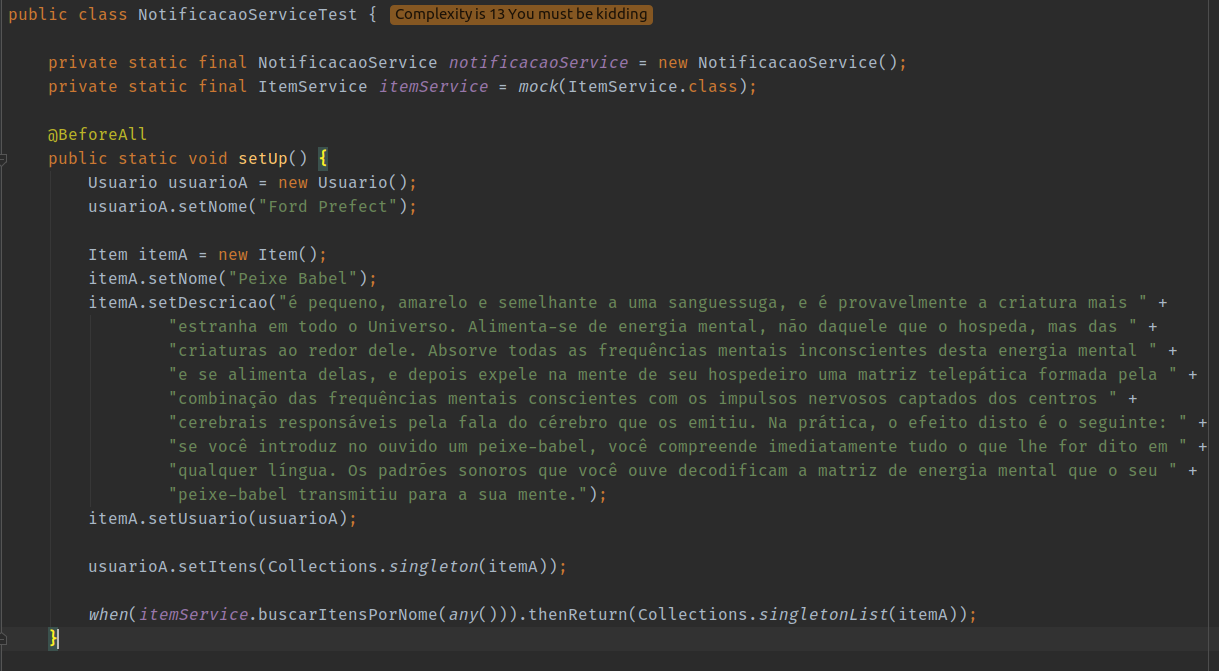
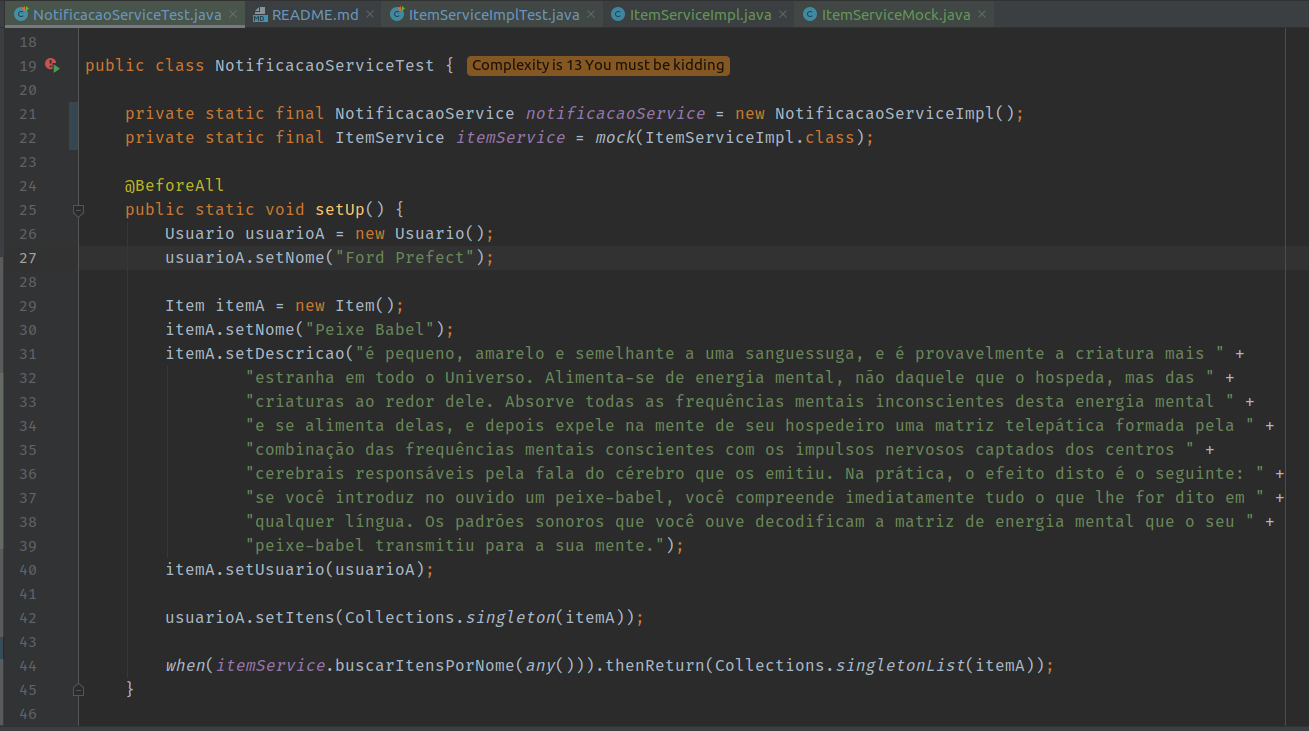
usando interfaces

Changed region(s): [[0.0, 0.0, 0.9975, 0.9836], [0.0623, 0.8942, 0.8105, 0.924], [0.0623, 0.8346, 0.4988, 0.8644]]

diff --git a/src/main/java/facens/engsoft/escambo/services/ItemService.java b/src/main/java/facens/engsoft/escambo/services/ItemService.java
@@ -3,67 +3,17 @@ package facens.engsoft.escambo.services;
 import facens.engsoft.escambo.models.IntervaloDeDisponibilidade;
 import facens.engsoft.escambo.models.Item;
 import facens.engsoft.escambo.models.Usuario;
-import facens.engsoft.escambo.repositories.ItemRepository;
-import facens.engsoft.escambo.repositories.UsuarioRepository;
-import lombok.RequiredArgsConstructor;
-import lombok.extern.slf4j.Slf4j;
-import org.springframework.stereotype.Service;
 
-import javax.transaction.Transactional;
-import java.util.Arrays;
 import java.util.Date;
 import java.util.List;
-import java.util.stream.Collectors;
 
-@Slf4j
-@Service
-@RequiredArgsConstructor
-public class ItemService {
+public interface ItemService {
 
-    private final ItemRepository itemRepository;
-    private final UsuarioRepository usuarioRepository;
+    Boolean addItemPara(Usuario usuario, Item item);
 
-    @Transactional
-    public Boolean addItemPara(Usuario usuario, Item item) {
-        usuario = usuarioRepository.findById(usuario.getId()).orElse(null);
+    Boolean addIntervaloDeDisponibilidadeParaItem(Item item, IntervaloDeDisponibilidade intervaloDeDisponibilidade);
 
-        if (usuario == null) {
-            return false;
-        }
+    List<Item> buscarItensPorNome(String name);
 
-        usuario.getItens().add(item);
-        itemRepository.save(item);
-
-        usuario = usuarioRepository.save(usuario);
-
-        log.info(String.format("Usuário %s salvo. Itens no inventário: %s", usuario.getNome(),
-                String.join(",", usuario.getItens().stream().map(i -> i.getNome()).collect(Collectors.toList()))));
-
-
-        return true;
-    }
-
-    public Boolean addIntervaloDeDisponibilidadeParaItem(Item item, IntervaloDeDisponibilidade intervaloDeDisponibilidade) {
-        return false;
-    }
-
-    public List<Item> buscarItensPorNome(String name) {
-        Item itemA = new Item();
-        itemA.setNome("Vaso de Petunias");
-
-        Item itemB = new Item();
-        itemB.setNome("Toalha");
-
-        return Arrays.asList(itemA, itemB);
-    }
-
-    public List<Item> buscarItensPorNomeEIntervalo(String name, Date dataInicial, Date dataFinal) {
-        Item itemA = new Item();
-        itemA.setNome("Vaso de Petunias");
-
-        Item itemB = new Item();
-        itemB.setNome("Toalha");
-
-        return Arrays.asList(itemA, itemB);
-    }
+    List<Item> buscarItensPorNomeEIntervalo(String name, Date dataInicial, Date dataFinal);
 }

diff --git a/src/main/java/facens/engsoft/escambo/services/impl/ItemServiceImpl.java b/src/main/java/facens/engsoft/escambo/services/impl/ItemServiceImpl.java
@@ -1,0 +1,58 @@
+package facens.engsoft.escambo.services.impl;
+
+import facens.engsoft.escambo.models.IntervaloDeDisponibilidade;
+import facens.engsoft.escambo.models.Item;
+import facens.engsoft.escambo.models.Usuario;
+import facens.engsoft.escambo.repositories.ItemRepository;
+import facens.engsoft.escambo.repositories.UsuarioRepository;
+import facens.engsoft.escambo.services.ItemService;
+import lombok.RequiredArgsConstructor;
+import lombok.extern.slf4j.Slf4j;
+import org.springframework.stereotype.Service;
+
+import javax.transaction.Transactional;
+import java.util.Arrays;
+import java.util.Date;
+import java.util.List;
+import java.util.stream.Collectors;
+
+@Slf4j
+@Service
+@RequiredArgsConstructor
+public class ItemServiceImpl implements ItemService {
+
+    private final ItemRepository itemRepository;
+    private final UsuarioRepository usuarioRepository;
+
+    @Transactional
+    public Boolean addItemPara(Usuario usuario, Item item) {
+        usuario = usuarioRepository.findById(usuario.getId()).orElse(null);
+
+        if (usuario == null) {
+            return false;
+        }
+
+        usuario.getItens().add(item);
+        itemRepository.save(item);
+
+        usuario = usuarioRepository.save(usuario);
+
+        log.info(String.format("Usuário %s salvo. Itens no inventário: %s", usuario.getNome(),
+                String.join(",", usuario.getItens().stream().map(i -> i.getNome()).collect(Collectors.toList()))));
+
+
+        return true;
+    }
+
+    public Boolean addIntervaloDeDisponibilidadeParaItem(Item item, IntervaloDeDisponibilidade intervaloDeDisponibilidade) {
+        return false;
+    }
+
+    public List<Item> buscarItensPorNome(String name) {
+        return null;
+    }
+
+    public List<Item> buscarItensPorNomeEIntervalo(String name, Date dataInicial, Date dataFinal) {
+        return null;
+    }
+}

diff --git a/src/test/java/facens/engsoft/escambo/services/ItemServiceImplTest.java b/src/test/java/facens/engsoft/escambo/services/ItemServiceImplTest.java
@@ -3,9 +3,9 @@ package facens.engsoft.escambo.services;
 import facens.engsoft.escambo.models.IntervaloDeDisponibilidade;
 import facens.engsoft.escambo.models.Item;
 import facens.engsoft.escambo.models.Usuario;
+import facens.engsoft.escambo.services.impl.ItemServiceMock;
 import org.junit.jupiter.api.DisplayName;
 import org.junit.jupiter.api.Test;
-import org.springframework.beans.factory.annotation.Autowired;
 import org.springframework.boot.test.context.SpringBootTest;
 
 import java.util.Calendar;
@@ -16,10 +16,9 @@ import static org.assertj.core.api.Assertions.assertThat;
 import static org.mockito.Mockito.any;
 
 @SpringBootTest
-public class ItemServiceTest {
+public class ItemServiceImplTest {
 
-    @Autowired
-    private ItemService itemService;
+    private static final ItemService itemService = new ItemServiceMock();
 
     @Test
     @DisplayName("DADO que sou um usuário que possui item " +
@@ -99,7 +98,6 @@ public class ItemServiceTest {
         intervaloDeDisponibilidade.setDataFinal(dataFinal);
         intervaloDeDisponibilidade.setObservacoes("Período pode ser alterado, mas precisa combinar antes");
 
-        boolean adicionado = itemService.addIntervaloDeDisponibilidadeParaItem(item, intervaloDeDisponibilidade);
         assertThat(itemService.addIntervaloDeDisponibilidadeParaItem(item, intervaloDeDisponibilidade))
                 .isTrue();
     }

diff --git a/src/main/java/facens/engsoft/escambo/services/SolicitacaoDeEscamboService.java b/src/main/java/facens/engsoft/escambo/services/SolicitacaoDeEscamboService.java
@@ -1,28 +1,11 @@
 package facens.engsoft.escambo.services;
 
-import facens.engsoft.escambo.enums.StatusDaSolicitacao;
 import facens.engsoft.escambo.models.InformacoesDeContato;
 import facens.engsoft.escambo.models.Item;
 import facens.engsoft.escambo.models.SolicitacaoDeEscambo;
-import org.springframework.stereotype.Service;
 
-@Service
-public class SolicitacaoDeEscamboService {
+public interface SolicitacaoDeEscamboService {
+    SolicitacaoDeEscambo solicitarEscambo(Item itemDoSolicitador, Item itemSolicitado);
 
-    public SolicitacaoDeEscambo solicitarEscambo(Item itemDoSolicitador, Item itemSolicitado) {
-        SolicitacaoDeEscambo solicitacaoDeEscambo = SolicitacaoDeEscambo.builder()
-                .itemDoSolicitador(itemDoSolicitador)
-                .itemSolicitado(itemSolicitado)
-                .statusDaSolicitacao(StatusDaSolicitacao.PENDENTE)
-                .build();
-
-        // TODO: Salvar solicitação
-        // TODO: Gerar notificação
-
-        return solicitacaoDeEscambo;
-    }
-
-    public InformacoesDeContato aceitarSolicitacaoDeEscambo(SolicitacaoDeEscambo solicitacaoDeEscambo) {
-        return new InformacoesDeContato();
-    }
+    InformacoesDeContato aceitarSolicitacaoDeEscambo(SolicitacaoDeEscambo solicitacaoDeEscambo);
 }

diff --git a/src/test/java/facens/engsoft/escambo/services/impl/ItemServiceMock.java b/src/test/java/facens/engsoft/escambo/services/impl/ItemServiceMock.java
@@ -1,0 +1,43 @@
+package facens.engsoft.escambo.services.impl;
+
+import facens.engsoft.escambo.models.IntervaloDeDisponibilidade;
+import facens.engsoft.escambo.models.Item;
+import facens.engsoft.escambo.models.Usuario;
+import facens.engsoft.escambo.services.ItemService;
+import org.springframework.stereotype.Service;
+
+import java.util.Arrays;
+import java.util.Date;
+import java.util.List;
+
+@Service
+public class ItemServiceMock implements ItemService {
+
+    public Boolean addItemPara(Usuario usuario, Item item) {
+        return true;
+    }
+
+    public Boolean addIntervaloDeDisponibilidadeParaItem(Item item, IntervaloDeDisponibilidade intervaloDeDisponibilidade) {
+        return false;
+    }
+
+    public List<Item> buscarItensPorNome(String name) {
+        Item itemA = new Item();
+        itemA.setNome("Vaso de Petunias");
+
+        Item itemB = new Item();
+        itemB.setNome("Toalha");
+
+        return Arrays.asList(itemA, itemB);
+    }
+
+    public List<Item> buscarItensPorNomeEIntervalo(String name, Date dataInicial, Date dataFinal) {
+        Item itemA = new Item();
+        itemA.setNome("Vaso de Petunias");
+
+        Item itemB = new Item();
+        itemB.setNome("Toalha");
+
+        return Arrays.asList(itemA, itemB);
+    }
+}

diff --git a/src/main/java/facens/engsoft/escambo/services/impl/SolicitacaoDeEscamboServiceImpl.java b/src/main/java/facens/engsoft/escambo/services/impl/SolicitacaoDeEscamboServiceImpl.java
@@ -1,0 +1,29 @@
+package facens.engsoft.escambo.services.impl;
+
+import facens.engsoft.escambo.enums.StatusDaSolicitacao;
+import facens.engsoft.escambo.models.InformacoesDeContato;
+import facens.engsoft.escambo.models.Item;
+import facens.engsoft.escambo.models.SolicitacaoDeEscambo;
+import facens.engsoft.escambo.services.SolicitacaoDeEscamboService;
+import org.springframework.stereotype.Service;
+
+@Service
+public class SolicitacaoDeEscamboServiceImpl implements SolicitacaoDeEscamboService {
+
+    @Override public SolicitacaoDeEscambo solicitarEscambo(Item itemDoSolicitador, Item itemSolicitado) {
+        SolicitacaoDeEscambo solicitacaoDeEscambo = SolicitacaoDeEscambo.builder()
+                .itemDoSolicitador(itemDoSolicitador)
+                .itemSolicitado(itemSolicitado)
+                .statusDaSolicitacao(StatusDaSolicitacao.PENDENTE)
+                .build();
+
+        // TODO: Salvar solicitação
+        // TODO: Gerar notificação
+
+        return solicitacaoDeEscambo;
+    }
+
+    @Override public InformacoesDeContato aceitarSolicitacaoDeEscambo(SolicitacaoDeEscambo solicitacaoDeEscambo) {
+        return new InformacoesDeContato();
+    }
+}

diff --git a/src/main/java/facens/engsoft/escambo/services/NotificacaoService.java b/src/main/java/facens/engsoft/escambo/services/NotificacaoService.java
@@ -1,18 +1,13 @@
 package facens.engsoft.escambo.services;
 
-import facens.engsoft.escambo.models.*;
-import org.springframework.stereotype.Service;
+import facens.engsoft.escambo.models.Item;
+import facens.engsoft.escambo.models.NotificacaoDeEscambo;
+import facens.engsoft.escambo.models.NotificacaoDeInteresse;
+import facens.engsoft.escambo.models.SolicitacaoDeEscambo;
+import facens.engsoft.escambo.models.Usuario;
 
-@Service
-public class NotificacaoService {
+public interface NotificacaoService {
+    NotificacaoDeInteresse notificarInteresse(Usuario usuarioInteressado, Item itemDeInteresse);
 
-    public NotificacaoDeInteresse notificarInteresse(Usuario usuarioInteressado, Item itemDeInteresse) {
-        // TODO: disparar notificação para o usuário
-        return null;
-    }
-
-    public NotificacaoDeEscambo notificarEscambo(SolicitacaoDeEscambo solicitacaoDeEscambo) {
-        // TODO: disparar notificação para o usuário
-        return new NotificacaoDeEscambo();
-    }
+    NotificacaoDeEscambo notificarEscambo(SolicitacaoDeEscambo solicitacaoDeEscambo);
 }

diff --git a/src/test/java/facens/engsoft/escambo/services/SolicitacaoDeEscamboServiceTest.java b/src/test/java/facens/engsoft/escambo/services/SolicitacaoDeEscamboServiceTest.java
@@ -5,6 +5,8 @@ import facens.engsoft.escambo.models.InformacoesDeContato;
 import facens.engsoft.escambo.models.Item;
 import facens.engsoft.escambo.models.SolicitacaoDeEscambo;
 import facens.engsoft.escambo.models.Usuario;
+import facens.engsoft.escambo.services.impl.ItemServiceMock;
+import facens.engsoft.escambo.services.impl.SolicitacaoDeEscamboServiceImpl;
 import org.junit.jupiter.api.BeforeAll;
 import org.junit.jupiter.api.DisplayName;
 import org.junit.jupiter.api.Test;
@@ -19,9 +21,9 @@ import static org.mockito.Mockito.when;
 
 public class SolicitacaoDeEscamboServiceTest {
 
-    private static final SolicitacaoDeEscamboService solicitacaoDeEscamboService = new SolicitacaoDeEscamboService();
+    private static final SolicitacaoDeEscamboService solicitacaoDeEscamboService = new SolicitacaoDeEscamboServiceImpl();
 
-    private static final ItemService itemService = mock(ItemService.class);
+    private static final ItemService itemService = mock(ItemServiceMock.class);
 
     @BeforeAll
     public static void setUp() {

diff --git a/src/test/java/facens/engsoft/escambo/services/NotificacaoServiceTest.java b/src/test/java/facens/engsoft/escambo/services/NotificacaoServiceTest.java
@@ -2,6 +2,8 @@ package facens.engsoft.escambo.services;
 
 import facens.engsoft.escambo.enums.StatusDaSolicitacao;
 import facens.engsoft.escambo.models.*;
+import facens.engsoft.escambo.services.impl.ItemServiceImpl;
+import facens.engsoft.escambo.services.impl.NotificacaoServiceImpl;
 import org.junit.jupiter.api.BeforeAll;
 import org.junit.jupiter.api.DisplayName;
 import org.junit.jupiter.api.Test;
@@ -16,8 +18,8 @@ import static org.mockito.Mockito.when;
 
 public class NotificacaoServiceTest {
 
-    private static final NotificacaoService notificacaoService = new NotificacaoService();
-    private static final ItemService itemService = mock(ItemService.class);
+    private static final NotificacaoService notificacaoService = new NotificacaoServiceImpl();
+    private static final ItemService itemService = mock(ItemServiceImpl.class);
 
     @BeforeAll
     public static void setUp() {

diff --git a/src/main/java/facens/engsoft/escambo/services/impl/NotificacaoServiceImpl.java b/src/main/java/facens/engsoft/escambo/services/impl/NotificacaoServiceImpl.java
@@ -1,0 +1,19 @@
+package facens.engsoft.escambo.services.impl;
+
+import facens.engsoft.escambo.models.*;
+import facens.engsoft.escambo.services.NotificacaoService;
+import org.springframework.stereotype.Service;
+
+@Service
+public class NotificacaoServiceImpl implements NotificacaoService {
+
+    @Override public NotificacaoDeInteresse notificarInteresse(Usuario usuarioInteressado, Item itemDeInteresse) {
+        // TODO: disparar notificação para o usuário
+        return null;
+    }
+
+    @Override public NotificacaoDeEscambo notificarEscambo(SolicitacaoDeEscambo solicitacaoDeEscambo) {
+        // TODO: disparar notificação para o usuário
+        return new NotificacaoDeEscambo();
+    }
+}

diff --git a/src/main/java/facens/engsoft/escambo/services/UsuarioService.java b/src/main/java/facens/engsoft/escambo/services/UsuarioService.java
@@ -2,16 +2,9 @@ package facens.engsoft.escambo.services;
 
 import facens.engsoft.escambo.enums.Nota;
 import facens.engsoft.escambo.models.Usuario;
-import org.springframework.stereotype.Service;
 
-@Service
-public class UsuarioService {
+public interface UsuarioService {
+    boolean usuarioPodeSerAvaliadoPorOutroUsuario(Usuario avaliador, Usuario avaliado);
 
-    public boolean usuarioPodeSerAvaliadoPorOutroUsuario(Usuario avaliador, Usuario avaliado) {
-        return false;
-    }
-
-    public boolean avaliarUsuario(Usuario avaliador, Usuario avaliado, Nota nota) {
-        return false;
-    }
+    boolean avaliarUsuario(Usuario avaliador, Usuario avaliado, Nota nota);
 }

diff --git a/src/test/java/facens/engsoft/escambo/services/UsuarioServiceTest.java b/src/test/java/facens/engsoft/escambo/services/UsuarioServiceTest.java
@@ -14,8 +14,8 @@ import static org.assertj.core.api.Assertions.assertThat;
 
 public class UsuarioServiceTest {
 
-    private static final UsuarioService usuarioService = new UsuarioService();
-    private static final SolicitacaoDeEscamboService solicitacaoDeEscamboService = new SolicitacaoDeEscamboService();
+    private static final UsuarioService usuarioService = new UsuarioServiceImpl();
+    private static final SolicitacaoDeEscamboService solicitacaoDeEscamboService = new SolicitacaoDeEscamboServiceImpl();
 
     @Test
     @DisplayName("DADO dois usuários QUE ainda não trocaram itens ENTÃO eles não podem se avaliar")
